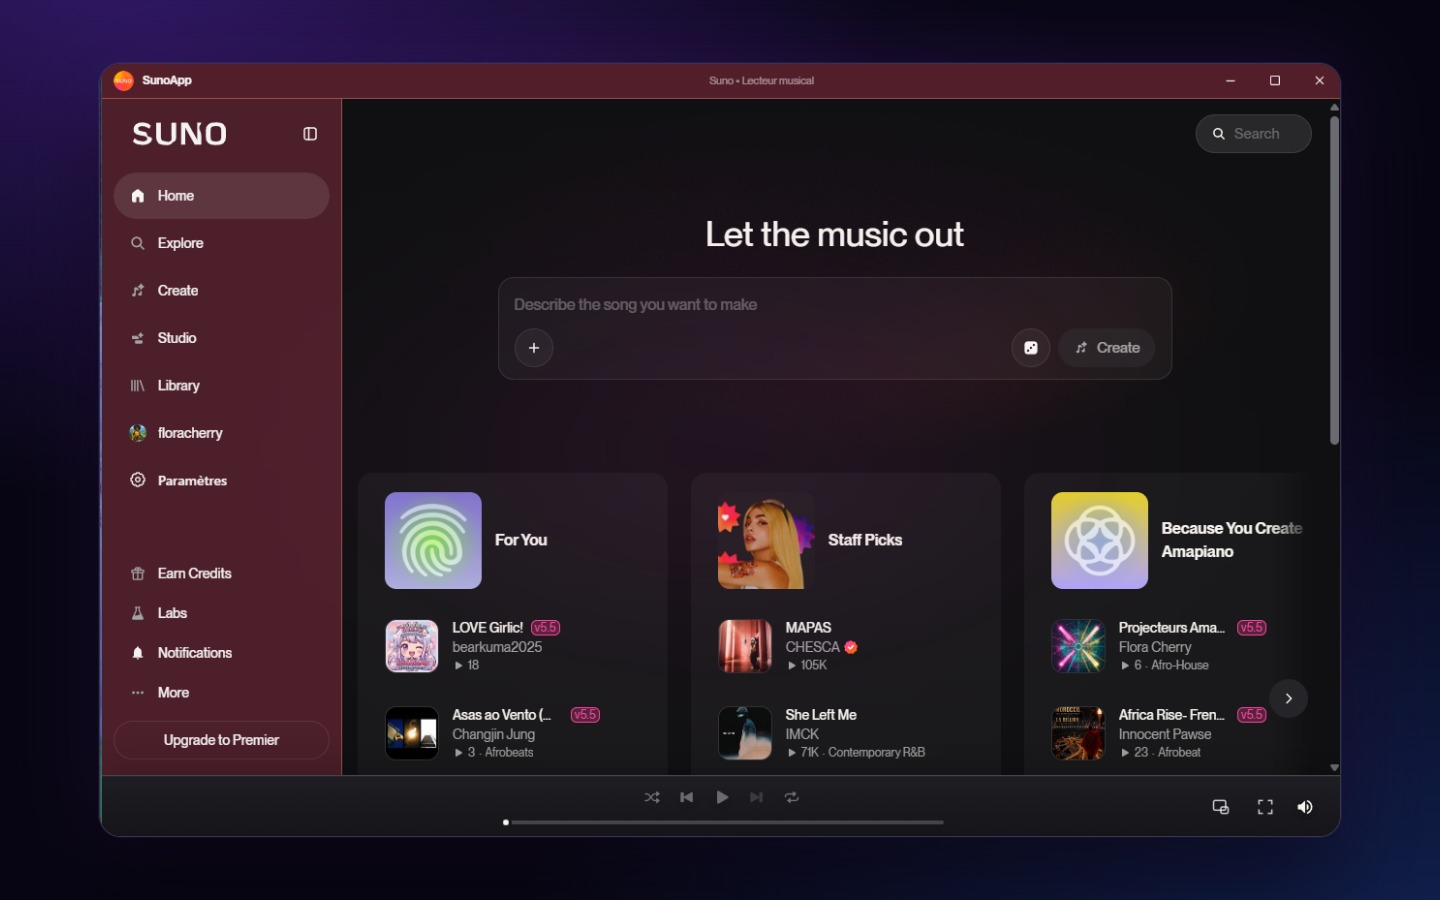
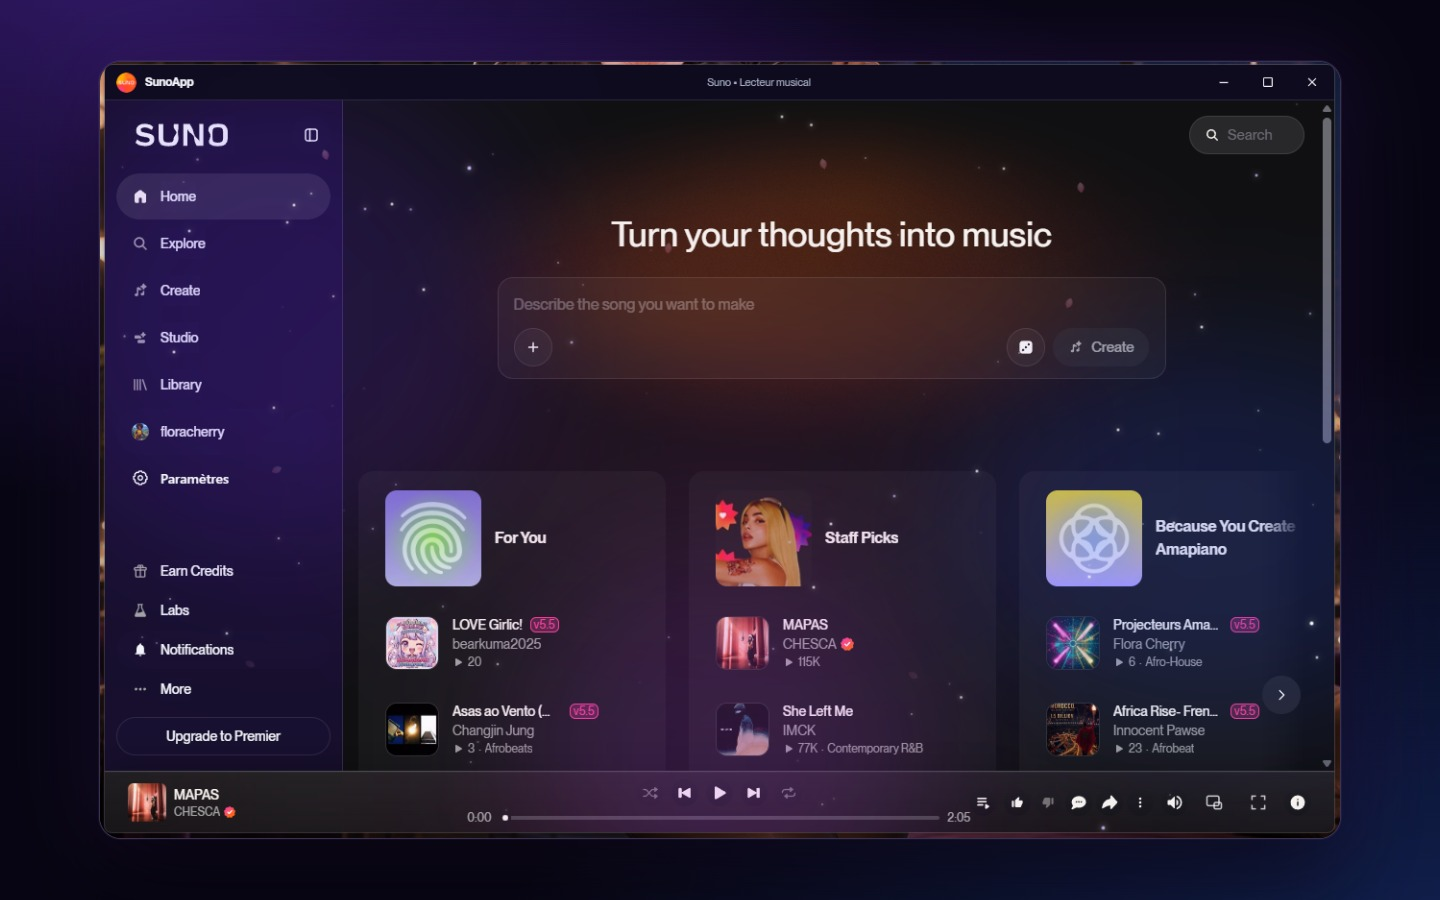
Add Galaxy Bunny theme and refresh SunoApp preview (v1.0.12)

diff --git a/main-enhancements.js b/main-enhancements.js
@@ -147,6 +147,18 @@
             --sa-card: linear-gradient(145deg, rgba(40,40,48,.9), rgba(12,12,16,.92));
             --sa-btn: rgba(255,255,255,.1);
         }
+        html[data-sunoapp-theme="galaxybunny"], body[data-sunoapp-theme="galaxybunny"] {
+            --sa-bg: #070513;
+            --sa-titlebar: rgba(24, 16, 48, .92);
+            --sa-text: #f4f6fb;
+            --sa-muted: #aab1c4;
+            --sa-accent: #c9bcff;
+            --sa-accent-2: #ff9ac8;
+            --sa-border: rgba(213, 201, 255, .16);
+            --sa-surface: rgba(18, 14, 40, .94);
+            --sa-card: linear-gradient(145deg, rgba(56, 32, 121, .55), rgba(7, 5, 19, .94));
+            --sa-btn: rgba(134, 112, 239, .16);
+        }
         .sa-themes { display: grid; grid-template-columns: repeat(auto-fill, minmax(108px, 1fr)); gap: 8px; }
         .sa-theme {
             min-height: 64px; padding: 10px 8px 8px; border: 1px solid var(--sa-border);
@@ -166,12 +178,14 @@
         .sa-theme[data-theme="glass"]::before { background: linear-gradient(90deg, rgba(255,255,255,.55), #7eb8ff 60%, rgba(255,255,255,.2)); }
         .sa-theme[data-theme="aero"]::before { background: linear-gradient(90deg, #7ec8ff, #1a5aa8 55%, #eaf6ff); }
         .sa-theme[data-theme="musique"]::before { background: linear-gradient(90deg, #ff5474, #8a5cff, #3ec6c9, #f0c36a); }
+        .sa-theme[data-theme="galaxybunny"]::before { background: linear-gradient(90deg, #070513, #382079 40%, #8670ef 70%, #ff9ac8); }
 
 
         html[data-sunoapp-theme] { background: var(--sa-bg); }
         html[data-sunoapp-theme="clair"] { color-scheme: light; }
         html[data-sunoapp-theme="nuit"], html[data-sunoapp-theme="cherry"], html[data-sunoapp-theme="aurore"],
-        html[data-sunoapp-theme="glass"], html[data-sunoapp-theme="aero"], html[data-sunoapp-theme="musique"] { color-scheme: dark; }
+        html[data-sunoapp-theme="glass"], html[data-sunoapp-theme="aero"], html[data-sunoapp-theme="musique"],
+        html[data-sunoapp-theme="galaxybunny"] { color-scheme: dark; }
         html[data-sunoapp-theme="glass"] #sunoapp-titlebar,
         html[data-sunoapp-theme="musique"] #sunoapp-titlebar {
             background: var(--sa-titlebar) !important;
@@ -182,6 +196,67 @@
             background: linear-gradient(180deg, rgba(220,240,255,.45), rgba(40,110,190,.38)) !important;
             backdrop-filter: blur(16px) saturate(170%) !important;
             border-bottom: 1px solid rgba(255,255,255,.35) !important;
+        }
+        html[data-sunoapp-theme="galaxybunny"] #sunoapp-titlebar {
+            background: rgba(16, 12, 32, .9) !important;
+            backdrop-filter: blur(16px) saturate(150%) !important;
+            border-bottom: 1px solid rgba(201, 188, 255, .16) !important;
+        }
+        html[data-sunoapp-theme="galaxybunny"] #sunoapp-settings-overlay .sa-settings-card {
+            background: linear-gradient(160deg, rgba(56, 32, 121, .55), rgba(12, 8, 28, .94)) !important;
+            backdrop-filter: blur(28px) saturate(160%) !important;
+            border: 1px solid rgba(201, 188, 255, .2) !important;
+        }
+        html[data-sunoapp-theme="galaxybunny"] #sunoapp-rail-tools .sa-rail-item:hover,
+        html[data-sunoapp-theme="galaxybunny"] #sunoapp-rail-tools .sa-rail-item.active {
+            background: rgba(134, 112, 239, .22);
+            border: 1px solid rgba(201, 188, 255, .28);
+        }
+        #sunoapp-galaxy-sky {
+            position: fixed; inset: 0; z-index: 8; pointer-events: none; overflow: hidden;
+            background: transparent;
+        }
+        #sunoapp-galaxy-sky .sa-gb-nebula {
+            position: absolute; border-radius: 50%; filter: blur(72px); opacity: .18;
+            animation: saGbNebula 28s ease-in-out infinite alternate;
+        }
+        #sunoapp-galaxy-sky .sa-gb-nebula.n1 { width: 460px; height: 460px; left: -90px; top: 8%; background: #6b2cff; }
+        #sunoapp-galaxy-sky .sa-gb-nebula.n2 { width: 540px; height: 380px; right: -130px; top: 38%; background: #2a4dff; animation-duration: 36s; }
+        #sunoapp-galaxy-sky .sa-gb-nebula.n3 { width: 400px; height: 400px; left: 32%; bottom: -150px; background: #c43dff; animation-duration: 22s; }
+        #sunoapp-galaxy-sky .sa-gb-stars i {
+            position: absolute; border-radius: 50%; background: #fff;
+            box-shadow: 0 0 6px #fff;
+            animation: saGbTwinkle 2.8s ease-in-out infinite;
+        }
+        #sunoapp-galaxy-sky .sa-gb-shoot {
+            position: absolute; top: 16%; left: -12%; width: 120px; height: 1px;
+            background: linear-gradient(90deg, transparent, #fff, #c9bcff);
+            opacity: 0;
+            animation: saGbShoot 8s linear infinite;
+        }
+        #sunoapp-galaxy-sky .sa-gb-petals i {
+            position: absolute; top: -16px; width: 8px; height: 8px;
+            background: radial-gradient(circle at 30% 30%, #ffd0e6, #ff7eb0 70%);
+            border-radius: 0 70% 0 70%; opacity: .22;
+            animation: saGbPetal linear infinite;
+        }
+        @keyframes saGbNebula {
+            from { transform: translate(0, 0) scale(1); }
+            to { transform: translate(40px, -28px) scale(1.1); }
+        }
+        @keyframes saGbTwinkle {
+            0%, 100% { opacity: .15; transform: scale(0.6); }
+            50% { opacity: 1; transform: scale(1.25); }
+        }
+        @keyframes saGbShoot {
+            0%, 74% { opacity: 0; transform: rotate(18deg) translate(0, 0); }
+            80% { opacity: .85; }
+            100% { opacity: 0; transform: rotate(18deg) translate(130vw, 38vh); }
+        }
+        @keyframes saGbPetal {
+            0% { transform: translate3d(0, -10px, 0) rotate(0deg); opacity: 0; }
+            14% { opacity: .28; }
+            100% { transform: translate3d(36px, 110vh, 0) rotate(220deg); opacity: 0; }
         }
         html[data-sunoapp-theme="glass"] #sunoapp-settings-overlay .sa-settings-card,
         html[data-sunoapp-theme="aero"] #sunoapp-settings-overlay .sa-settings-card,

diff --git a/sunoapp-enh-3b.js b/sunoapp-enh-3b.js
@@ -52,21 +52,57 @@
     document.getElementById('sunoapp-open-mini').addEventListener('click', () => window.open('sunoapp://mini', '_blank'));
 
     let syncMusicTheme = () => {};
+    const mountGalaxySky = (on) => {
+        try {
+            let sky = document.getElementById('sunoapp-galaxy-sky');
+            if (!on) {
+                sky?.remove();
+                return;
+            }
+            if (sky || !document.body) return;
+            sky = document.createElement('div');
+            sky.id = 'sunoapp-galaxy-sky';
+            sky.setAttribute('aria-hidden', 'true');
+            sky.innerHTML = '<div class="sa-gb-nebula n1"></div><div class="sa-gb-nebula n2"></div><div class="sa-gb-nebula n3"></div><div class="sa-gb-stars"></div><div class="sa-gb-shoot"></div><div class="sa-gb-petals"></div>';
+            document.body.appendChild(sky);
+            const starBox = sky.querySelector('.sa-gb-stars');
+            if (starBox) {
+                for (let i = 0; i < 90; i += 1) {
+                    const star = document.createElement('i');
+                    const size = Math.random() > 0.82 ? 3 : 2;
+                    star.style.width = `${size}px`;
+                    star.style.height = `${size}px`;
+                    star.style.left = `${Math.random() * 100}%`;
+                    star.style.top = `${Math.random() * 100}%`;
+                    star.style.animationDelay = `${-Math.random() * 2.8}s`;
+                    star.style.animationDuration = `${2.2 + Math.random() * 2.4}s`;
+                    if (Math.random() > 0.7) star.style.background = '#c9bcff';
+                    starBox.appendChild(star);
+                }
+            }
+            const petals = sky.querySelector('.sa-gb-petals');
+            if (petals) {
+                for (let i = 0; i < 8; i += 1) {
+                    const petal = document.createElement('i');
+                    petal.style.left = `${8 + Math.random() * 84}%`;
+                    petal.style.animationDelay = `${-Math.random() * 18}s`;
+                    petal.style.animationDuration = `${16 + Math.random() * 12}s`;
+                    petals.appendChild(petal);
+                }
+            }
+        } catch (_) {}
+    };
     const applyUiTheme = (id) => {
-        const theme = ['nuit', 'clair', 'cherry', 'aurore', 'glass', 'aero', 'musique'].includes(id) ? id : 'nuit';
+        const theme = ['nuit', 'clair', 'cherry', 'aurore', 'glass', 'aero', 'musique', 'galaxybunny'].includes(id) ? id : 'nuit';
         state.uiTheme = theme;
         document.documentElement.dataset.sunoappTheme = theme;
         document.body.dataset.sunoappTheme = theme;
         document.documentElement.style.colorScheme = theme === 'clair' ? 'light' : 'dark';
         localStorage.setItem('sunoapp-ui-theme', theme);
-        document.querySelectorAll('[data-theme]').forEach((button) => {
-            const on = button.dataset.theme === theme;
-            button.classList.toggle('active', on);
-            if (button.hasAttribute('data-sunoapp-nav')) {
-                if (on) button.setAttribute('aria-current', 'page');
-                else button.removeAttribute('aria-current');
-            }
+        document.querySelectorAll('.sa-theme[data-theme]').forEach((button) => {
+            button.classList.toggle('active', button.dataset.theme === theme);
         });
+        mountGalaxySky(theme === 'galaxybunny');
         syncMusicTheme();
     };
     applyUiTheme(state.uiTheme);

diff --git a/docs/i18n.js b/docs/i18n.js
@@ -27,7 +27,7 @@ const I18N = {
     fPlayerT: "Lecteur personnalisé", fPlayerD: "Pochette, progression, forme d’onde, couleurs dynamiques selon le morceau.",
     fMiniT: "Mini-lecteur", fMiniD: "Toujours visible, en bas à droite, avec lecture, pause, précédent, suivant et volume.",
     fEqT: "Égaliseur 10 bandes", fEqD: "Spectre, réverbe, écho, plusieurs profils sonores.",
-    fThemeT: "Thèmes", fThemeD: "Nuit, Clair, Cherry, Aurore, Glass Apple, Aero, Musique.",
+    fThemeT: "Thèmes", fThemeD: "Nuit, Clair, Cherry, Aurore, Glass Apple, Aero, Musique, Galaxy Bunny.",
     fI18nT: "31 langues", fI18nD: "L’app et ce site parlent votre langue.",
     fWinT: "Windows natif", fWinD: "Contrôles multimédias dans la barre des tâches, session conservée.",
     installTitle: "Installation Windows",
@@ -56,7 +56,7 @@ const I18N = {
     fPlayerT: "Custom player", fPlayerD: "Cover, progress, waveform, colors that follow the track.",
     fMiniT: "Mini player", fMiniD: "Always on top, bottom-right, with play, pause, previous, next, and volume.",
     fEqT: "10-band equalizer", fEqD: "Spectrum, reverb, echo, several sound profiles.",
-    fThemeT: "Themes", fThemeD: "Night, Light, Cherry, Aurora, Glass Apple, Aero, Music.",
+    fThemeT: "Themes", fThemeD: "Night, Light, Cherry, Aurora, Glass Apple, Aero, Music, Galaxy Bunny.",
     fI18nT: "31 languages", fI18nD: "The app and this site speak your language.",
     fWinT: "Native Windows", fWinD: "Taskbar media controls, session kept between launches.",
     installTitle: "Windows install",

diff --git a/sunoapp-i18n-5.js b/sunoapp-i18n-5.js
@@ -11,6 +11,7 @@
         "themeGlass": "Glass Apple",
         "themeAero": "Aero",
         "themeMusique": "Müzik",
+        "themeGalaxyBunny": "Galaxy Bunny",
         "statusWaveOff": "Dalga formu gizli.",
         "statusWaveOn": "Dalga formu açık: oynatma sırasında otomatik görünür.",
         "statusCustomOff": "Özel oynatıcı kapalı.",
@@ -127,6 +128,7 @@
         "themeGlass": "Glass Apple",
         "themeAero": "Aero",
         "themeMusique": "موسيقى",
+        "themeGalaxyBunny": "Galaxy Bunny",
         "statusWaveOff": "شكل الموجة مخفي.",
         "statusWaveOn": "شكل الموجة فعال: يظهر تلقائيا أثناء التشغيل.",
         "statusCustomOff": "المشغل المخصص متوقف.",
@@ -243,6 +245,7 @@
         "themeGlass": "Glass Apple",
         "themeAero": "Aero",
         "themeMusique": "מוזיקה",
+        "themeGalaxyBunny": "Galaxy Bunny",
         "statusWaveOff": "צורת הגל מוסתרת.",
         "statusWaveOn": "צורת הגל פעילה: מופיעה אוטומטית בזמן ניגון.",
         "statusCustomOff": "הנגן המותאם כבוי.",

diff --git a/sunoapp-i18n-3.js b/sunoapp-i18n-3.js
@@ -22,6 +22,7 @@
         "themeGlass": "Glass Apple",
         "themeAero": "Aero",
         "themeMusique": "Musica",
+        "themeGalaxyBunny": "Galaxy Bunny",
         "statusWaveOff": "Forma d'onda nascosta.",
         "statusWaveOn": "Forma d'onda attiva: compare automaticamente durante la riproduzione.",
         "statusCustomOff": "Lettore personalizzato disattivato.",
@@ -138,6 +139,7 @@
         "themeGlass": "Glass Apple",
         "themeAero": "Aero",
         "themeMusique": "Muziek",
+        "themeGalaxyBunny": "Galaxy Bunny",
         "statusWaveOff": "Golfvorm verborgen.",
         "statusWaveOn": "Golfvorm actief: verschijnt automatisch tijdens het afspelen.",
         "statusCustomOff": "Aangepaste speler uitgeschakeld.",
@@ -254,6 +256,7 @@
         "themeGlass": "Glass Apple",
         "themeAero": "Aero",
         "themeMusique": "Muzyka",
+        "themeGalaxyBunny": "Galaxy Bunny",
         "statusWaveOff": "Przebieg ukryty.",
         "statusWaveOn": "Przebieg włączony: pojawia się automatycznie podczas odtwarzania.",
         "statusCustomOff": "Niestandardowy odtwarzacz wyłączony.",

diff --git a/sunoapp-i18n-1.js b/sunoapp-i18n-1.js
@@ -99,6 +99,7 @@
         "themeGlass": "Glass Apple",
         "themeAero": "Aero",
         "themeMusique": "Music",
+        "themeGalaxyBunny": "Galaxy Bunny",
         "statusWaveOff": "Waveform hidden.",
         "statusWaveOn": "Waveform on: it appears automatically during playback.",
         "statusCustomOff": "Custom player disabled.",
@@ -215,6 +216,7 @@
         "themeGlass": "Glass Apple",
         "themeAero": "Aero",
         "themeMusique": "Musique",
+        "themeGalaxyBunny": "Galaxy Bunny",
         "statusWaveOff": "Forme d'onde masquée.",
         "statusWaveOn": "Forme d'onde active : elle apparaît automatiquement pendant la lecture.",
         "statusCustomOff": "Lecteur personnalisé désactivé.",
@@ -331,6 +333,7 @@
         "themeGlass": "Glass Apple",
         "themeAero": "Aero",
         "themeMusique": "Música",
+        "themeGalaxyBunny": "Galaxy Bunny",
         "statusWaveOff": "Forma de onda oculta.",
         "statusWaveOn": "Forma de onda activa: aparece automáticamente durante la reproducción.",
         "statusCustomOff": "Reproductor personalizado desactivado.",

diff --git a/sunoapp-i18n-9.js b/sunoapp-i18n-9.js
@@ -26,6 +26,7 @@
         "themeGlass": "Glass Apple",
         "themeAero": "Aero",
         "themeMusique": "Musik",
+        "themeGalaxyBunny": "Galaxy Bunny",
         "statusWaveOff": "Bentuk gelombang disembunyikan.",
         "statusWaveOn": "Bentuk gelombang aktif: muncul otomatis saat diputar.",
         "statusCustomOff": "Pemutar kustom dimatikan.",
@@ -142,6 +143,7 @@
         "themeGlass": "Glass Apple",
         "themeAero": "Aero",
         "themeMusique": "Muzik",
+        "themeGalaxyBunny": "Galaxy Bunny",
         "statusWaveOff": "Bentuk gelombang disembunyikan.",
         "statusWaveOn": "Bentuk gelombang aktif: muncul secara automatik semasa main.",
         "statusCustomOff": "Pemain tersuai dimatikan.",
@@ -258,6 +260,7 @@
         "themeGlass": "Glass Apple",
         "themeAero": "Aero",
         "themeMusique": "Musika",
+        "themeGalaxyBunny": "Galaxy Bunny",
         "statusWaveOff": "Nakatago ang waveform.",
         "statusWaveOn": "Naka-on ang waveform: kusang lumalabas habang tumutugtog.",
         "statusCustomOff": "Naka-off ang custom player.",

diff --git a/sunoapp-i18n-11.js b/sunoapp-i18n-11.js
@@ -53,6 +53,7 @@
         "themeGlass": "Glass Apple",
         "themeAero": "Aero",
         "themeMusique": "Musiikki",
+        "themeGalaxyBunny": "Galaxy Bunny",
         "statusWaveOff": "Aaltomuoto piilotettu.",
         "statusWaveOn": "Aaltomuoto päällä: näkyy automaattisesti toiston aikana.",
         "statusCustomOff": "Mukautettu soitin pois.",
@@ -169,6 +170,7 @@
         "themeGlass": "Glass Apple",
         "themeAero": "Aero",
         "themeMusique": "Hudba",
+        "themeGalaxyBunny": "Galaxy Bunny",
         "statusWaveOff": "Vlna skrytá.",
         "statusWaveOn": "Vlna zapnutá: objeví se automaticky během přehrávání.",
         "statusCustomOff": "Vlastní přehrávač vypnut.",
@@ -285,6 +287,7 @@
         "themeGlass": "Glass Apple",
         "themeAero": "Aero",
         "themeMusique": "Zene",
+        "themeGalaxyBunny": "Galaxy Bunny",
         "statusWaveOff": "Hullámforma rejtve.",
         "statusWaveOn": "Hullámforma be: lejátszás közben automatikusan megjelenik.",
         "statusCustomOff": "Egyedi lejátszó kikapcsolva.",

diff --git a/sunoapp-i18n-7.js b/sunoapp-i18n-7.js
@@ -39,6 +39,7 @@
         "themeGlass": "Glass Apple",
         "themeAero": "Aero",
         "themeMusique": "뮤직",
+        "themeGalaxyBunny": "Galaxy Bunny",
         "statusWaveOff": "파형을 숨겼습니다.",
         "statusWaveOn": "파형 켜짐: 재생 중 자동으로 나타납니다.",
         "statusCustomOff": "사용자 지정 플레이어가 꺼졌습니다.",
@@ -155,6 +156,7 @@
         "themeGlass": "Glass Apple",
         "themeAero": "Aero",
         "themeMusique": "音乐",
+        "themeGalaxyBunny": "Galaxy Bunny",
         "statusWaveOff": "已隐藏波形。",
         "statusWaveOn": "波形已开启：播放时会自动出现。",
         "statusCustomOff": "自定义播放器已关闭。",
@@ -271,6 +273,7 @@
         "themeGlass": "Glass Apple",
         "themeAero": "Aero",
         "themeMusique": "音樂",
+        "themeGalaxyBunny": "Galaxy Bunny",
         "statusWaveOff": "已隱藏波形。",
         "statusWaveOn": "波形已開啟：播放時會自動出現。",
         "statusCustomOff": "自訂播放器已關閉。",

diff --git a/sunoapp-i18n-10.js b/sunoapp-i18n-10.js
@@ -43,6 +43,7 @@
         "themeGlass": "Glass Apple",
         "themeAero": "Aero",
         "themeMusique": "Musik",
+        "themeGalaxyBunny": "Galaxy Bunny",
         "statusWaveOff": "Vågform dold.",
         "statusWaveOn": "Vågform på: visas automatiskt under uppspelning.",
         "statusCustomOff": "Anpassad spelare av.",
@@ -159,6 +160,7 @@
         "themeGlass": "Glass Apple",
         "themeAero": "Aero",
         "themeMusique": "Musik",
+        "themeGalaxyBunny": "Galaxy Bunny",
         "statusWaveOff": "Bølgeform skjult.",
         "statusWaveOn": "Bølgeform til: vises automatisk under afspilning.",
         "statusCustomOff": "Tilpasset afspiller slået fra.",
@@ -275,6 +277,7 @@
         "themeGlass": "Glass Apple",
         "themeAero": "Aero",
         "themeMusique": "Musikk",
+        "themeGalaxyBunny": "Galaxy Bunny",
         "statusWaveOff": "Bølgeform skjult.",
         "statusWaveOn": "Bølgeform på: vises automatisk under avspilling.",
         "statusCustomOff": "Tilpasset spiller av.",

diff --git a/sunoapp-i18n-6.js b/sunoapp-i18n-6.js
@@ -62,6 +62,7 @@
         "themeGlass": "Glass Apple",
         "themeAero": "Aero",
         "themeMusique": "संगीत",
+        "themeGalaxyBunny": "Galaxy Bunny",
         "statusWaveOff": "तरंग छिपी हुई है.",
         "statusWaveOn": "तरंग चालू: प्लेबैक के दौरान अपने आप दिखाई देती है.",
         "statusCustomOff": "कस्टम प्लेयर बंद है.",
@@ -178,6 +179,7 @@
         "themeGlass": "Glass Apple",
         "themeAero": "Aero",
         "themeMusique": "ミュージック",
+        "themeGalaxyBunny": "Galaxy Bunny",
         "statusWaveOff": "波形を非表示にしました。",
         "statusWaveOn": "波形オン: 再生中に自動で表示されます。",
         "statusCustomOff": "カスタムプレーヤーをオフにしました。",

diff --git a/sunoapp-i18n-4.js b/sunoapp-i18n-4.js
@@ -48,6 +48,7 @@
         "themeGlass": "Glass Apple",
         "themeAero": "Aero",
         "themeMusique": "Музыка",
+        "themeGalaxyBunny": "Galaxy Bunny",
         "statusWaveOff": "Волна скрыта.",
         "statusWaveOn": "Волна включена: появляется автоматически во время воспроизведения.",
         "statusCustomOff": "Свой плеер выключен.",
@@ -164,6 +165,7 @@
         "themeGlass": "Glass Apple",
         "themeAero": "Aero",
         "themeMusique": "Музика",
+        "themeGalaxyBunny": "Galaxy Bunny",
         "statusWaveOff": "Хвилю приховано.",
         "statusWaveOn": "Хвиля увімкнена: з’являється автоматично під час відтворення.",
         "statusCustomOff": "Власний плеєр вимкнено.",
